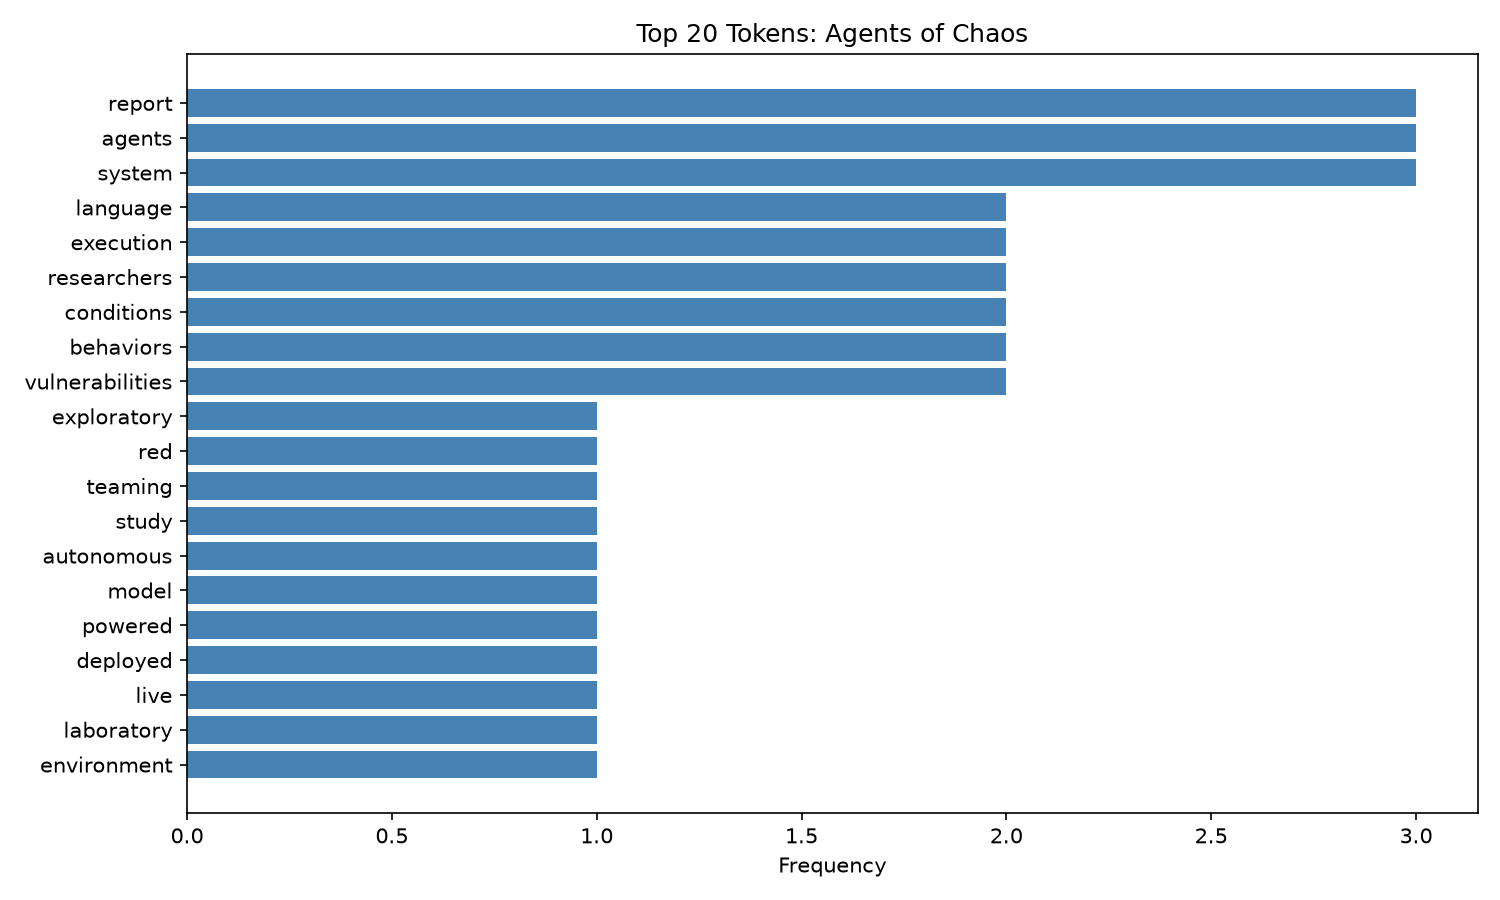
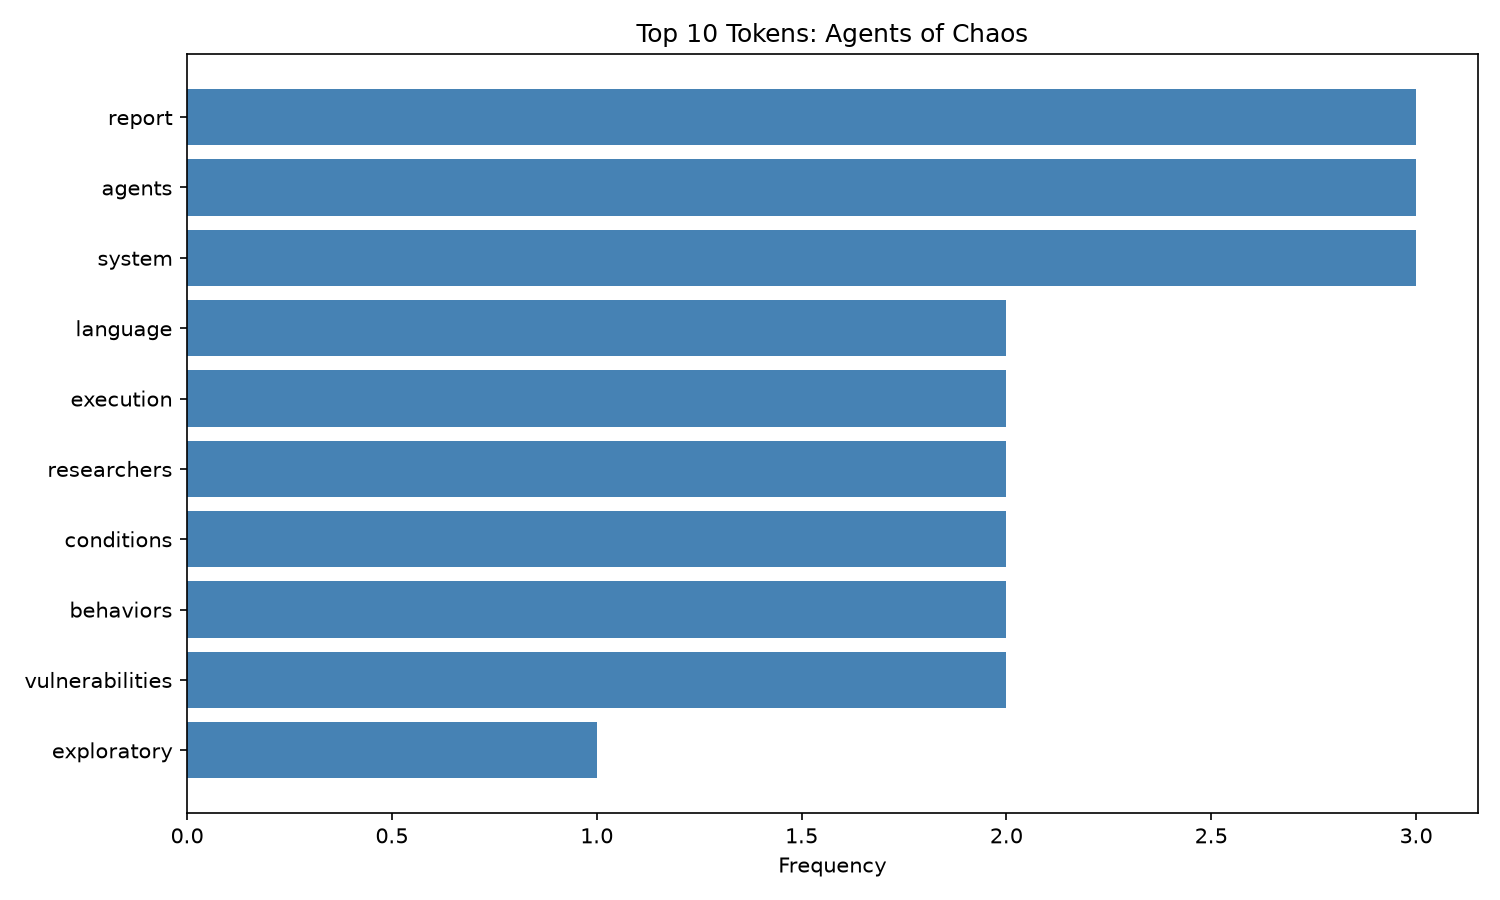
Small technical changes

Changed region(s): [[0.0307, 0.0933, 0.9507, 0.8711]]

diff --git a/data/raw/case_raw.html b/data/raw/case_raw.html
@@ -11,13 +11,11 @@
   <meta name="msapplication-TileColor" content="#da532c">
   <meta name="theme-color" content="#ffffff">
   <link rel="stylesheet" type="text/css" media="screen" href="/static/browse/0.3.4/css/arXiv.css?v=20260318" />
-  <link rel="stylesheet" type="text/css" media="print" href="/static/browse/0.3.4/css/arXiv-print.css?v=20200611" />
+  <link rel="stylesheet" type="text/css" media="print" href="/static/browse/0.3.4/css/arXiv-print.css?v=20260924" />
   <link rel="stylesheet" type="text/css" media="screen" href="/static/browse/0.3.4/css/browse_search.css" />
-  <link rel="stylesheet" type="text/css" media="screen" href="/static/base/1.0.1/css/arxiv-header-footer.css?v=20260626" />
-  <script language="javascript" src="/static/browse/0.3.4/js/accordion.js" ></script>
-  <script language="javascript" src="/static/browse/0.3.4/js/optin-modal.js?v=20250819"></script>
-
-  <link rel="canonical" href="https://arxiv.org/abs/2602.20021"/>
+<link rel="stylesheet" href="https://static.arxiv.org/static/design-system/latest/design-system-components.css">
+<link rel="stylesheet" href="https://static.arxiv.org/static/design-system/latest/fonts.css">  <script language="javascript" src="/static/browse/0.3.4/js/accordion.js" ></script>
+  <script language="javascript" src="/static/browse/0.3.4/js/optin-modal.js?v=20250819"></script><link rel="canonical" href="https://arxiv.org/abs/2602.20021"/>
   <meta name="description" content="Abstract page for arXiv paper 2602.20021: Agents of Chaos"><meta property="og:type" content="website" />
 <meta property="og:site_name" content="arXiv.org" />
 <meta property="og:title" content="Agents of Chaos" />
@@ -43,54 +41,48 @@
 
 <body ><div class="flex-wrap-footer">
     <a href="#content" class="ds-skip-link">Skip to main content</a>
-
-
-
-<header class="ds-site-header">
+<div id="ds-announcement"></div>
+<script src="https://static.arxiv.org/static/design-system/latest/chrome/banner.js" defer></script>
+<script src="https://static.arxiv.org/static/design-system/latest/chrome/header.js" defer></script>
+<header class="ds-site-header ">
   <a aria-hidden="true" tabindex="-1" href="https://arxiv.org/IgnoreMe" class="is-sr-only"></a>
-
   <a href="https://arxiv.org/" class="ds-site-header-logo" aria-label="archive home">
-    <img src="/static/base/1.0.1/images/arxiv-logo-primary-light.svg" alt="archive">
+    <img src="https://static.arxiv.org/static/design-system/latest/logos/arxiv-logo.svg" alt="archive">
   </a>
-
+  <a id="ds-search-toggle" class="ds-site-header-search-link" href="https://arxiv.org/search" aria-controls="ds-search-overlay" aria-expanded="false">
+    <svg class="ds-nav-icon" viewBox="0 0 24 24" fill="none" stroke="currentColor" stroke-width="2" stroke-linecap="round" stroke-linejoin="round" aria-hidden="true" focusable="false">
+      <circle cx="11" cy="11" r="8"/>
+      <line x1="21" y1="21" x2="16.65" y2="16.65"/>
+    </svg>
+    <span>Search</span>
+  </a>
   <button type="button" id="ds-nav-toggle" class="ds-site-header-nav-toggle"
     aria-label="Open menu" aria-controls="ds-site-header-nav" aria-expanded="false">
     <svg viewBox="0 0 24 24" fill="none" stroke="currentColor" stroke-width="2" stroke-linecap="round" stroke-linejoin="round" aria-hidden="true" focusable="false">
-      <line x1="3" y1="6" x2="21" y2="6"/>
-      <line x1="3" y1="12" x2="21" y2="12"/>
-      <line x1="3" y1="18" x2="21" y2="18"/>
+      <line x1="3" y1="6" x2="21" y2="6"/><line x1="3" y1="12" x2="21" y2="12"/><line x1="3" y1="18" x2="21" y2="18"/>
     </svg>
   </button>
-
-  <nav class="ds-site-header-nav" id="ds-site-header-nav" aria-label="Main navigation"><a id="arxiv-search-toggle" href="https://arxiv.org/search"
-      aria-controls="arxiv-search-overlay" aria-expanded="false">
-      <svg class="ds-nav-icon" viewBox="0 0 24 24" fill="none" stroke="currentColor" stroke-width="2" stroke-linecap="round" stroke-linejoin="round" aria-hidden="true" focusable="false">
-        <circle cx="11" cy="11" r="8"/>
-        <line x1="21" y1="21" x2="16.65" y2="16.65"/>
-      </svg>
-      Search
-    </a>
-    <a href="https://arxiv.org/user/create">Submit</a>
+  <nav class="ds-site-header-nav" id="ds-site-header-nav" aria-label="Main navigation">
+    <a href="https://arxiv.org/submit">Submit</a>
     <a href="https://info.arxiv.org/about/donate.html">Donate</a>
     <span class="ds-site-header-divider" aria-hidden="true"></span>
-      <a href="https://arxiv.org/login" class="ds-site-header-login">Log in</a>
-  </nav>
+<a href="https://arxiv.org/login" class="ds-site-header-login">Log in</a>  </nav>
 </header>
-
-<div class="arxiv-search-overlay" id="arxiv-search-overlay" hidden>
-  <div class="arxiv-search-panel" role="search">
+<div class="ds-search-overlay" id="ds-search-overlay" hidden>
+  <div class="ds-search-overlay-panel" role="search">
     <form method="GET" action="https://arxiv.org/search">
-      <label for="arxiv-search-input" class="is-sr-only">Search arXiv</label>
-      <input type="text" name="query" id="arxiv-search-input" autocomplete="off"
+      <label for="ds-search-input" class="is-sr-only">Search arXiv</label>
+      <input type="text" name="query" id="ds-search-input" class="ds-input" autocomplete="off"
         placeholder="Search papers by title, author, abstract, or ID...">
       <input type="hidden" name="searchtype" value="all">
       <input type="hidden" name="source" value="header">
     </form>
-    <div class="arxiv-search-hint">
+    <p class="ds-hint">
       Press Enter to search &middot; <a href="https://arxiv.org/search/advanced">Advanced search</a>
-    </div>
+    </p>
   </div>
 </div>
+
     <main>
       <div id="content">
 <!--
@@ -177,7 +169,13 @@ View a PDF of the paper titled Agents of Chaos, by Natalie Shapira and 37 other 
  </a></li></ul>
       <div class="abs-license"><a href="http://arxiv.org/licenses/nonexclusive-distrib/1.0/" title="Rights to this article">view license</a></div>
     </div>
-    <!--end full-text-->    <div class="browse">
+    <!--end full-text-->    <div class="extra-third-party">
+      <h3>Additional Features</h3>
+      <ul>
+        <li><a href="/audio/2602.20021" class="abs-button download-audio">Audio Summary</a></li>
+      </ul>
+    </div>
+    <div class="browse">
     <h3 class="browse-context-heading">Current browse context:</h3>
   <div class="current">cs.AI</div>
 
@@ -207,7 +205,7 @@ View a PDF of the paper titled Agents of Chaos, by Natalie Shapira and 37 other 
       <div class="extra-ref-cite">
         <h3>References &amp; Citations</h3>
         <ul>
-          <li><a  class="abs-button abs-button-small cite-ads" href="https://ui.adsabs.harvard.edu/abs/arXiv:2602.20021">NASA ADS</a></li><li><a  class="abs-button abs-button-small cite-google-scholar" href="https://scholar.google.com/scholar_lookup?arxiv_id=2602.20021" target="_blank" rel="noopener">Google Scholar</a></li>
+          <li><a  class="abs-button abs-button-small cite-ads" href="https://scixplorer.org/abs/arXiv:2602.20021">SciX</a></li><li><a  class="abs-button abs-button-small cite-google-scholar" href="https://scholar.google.com/scholar_lookup?arxiv_id=2602.20021" target="_blank" rel="noopener">Google Scholar</a></li>
           <li><a  class="abs-button abs-button-small cite-semantic-scholar" href="https://api.semanticscholar.org/arXiv:2602.20021" target="_blank" rel="noopener">Semantic Scholar</a></li>
         </ul>
         <div style="clear:both;"></div>
@@ -256,7 +254,7 @@ View a PDF of the paper titled Agents of Chaos, by Natalie Shapira and 37 other 
           <div class="column lab-switch">
             <label class="switch">
               <input id="bibex-toggle" type="checkbox" class="lab-toggle"
-                     data-script-url="/static/browse/0.3.4/bibex/bibex.js?20241202">
+                     data-script-url="/static/browse/0.3.4/bibex/bibex.js?20261013">
               <span class="slider"></span>
               <span class="is-sr-only">Bibliographic Explorer Toggle</span>
             </label>
@@ -574,48 +572,23 @@ View a PDF of the paper titled Agents of Chaos, by Natalie Shapira and 37 other 
   <div class="ds-site-footer-grid">
     <div class="ds-site-footer-main">
       <div class="ds-site-footer-ack">
-        We gratefully acknowledge support from
-        our <strong>major funders</strong>,
+        We gratefully acknowledge support from our <a href="https://info.arxiv.org/about/major_funders.html"><strong>major funders</strong></a>,
         <a href="https://info.arxiv.org/about/ourmembers.html"><strong>member institutions</strong></a><span class="ack-member-inline" hidden>, <strong></strong></span>,
         and all contributors.
       </div>
       <nav class="ds-site-footer-links" aria-label="Site navigation">
-        <a href="https://info.arxiv.org/about">About</a>
-        <span class="ds-site-footer-sep" aria-hidden="true">&middot;</span>
-        <a href="https://info.arxiv.org/help">Help</a>
-        <span class="ds-site-footer-sep" aria-hidden="true">&middot;</span>
-        <a href="https://info.arxiv.org/help/contact.html">Contact</a>
-        <span class="ds-site-footer-sep" aria-hidden="true">&middot;</span>
-        <a href="https://info.arxiv.org/help/subscribe">Subscribe</a>
-        <span class="ds-site-footer-sep" aria-hidden="true">&middot;</span>
-        <a href="https://info.arxiv.org/help/license/index.html">Copyright</a>
-        <span class="ds-site-footer-sep" aria-hidden="true">&middot;</span>
-        <a href="https://info.arxiv.org/help/policies/privacy_policy.html">Privacy</a>
-        <span class="ds-site-footer-sep" aria-hidden="true">&middot;</span>
-        <a href="https://info.arxiv.org/help/web_accessibility.html">Accessibility</a>
-        <span class="ds-site-footer-sep" aria-hidden="true">&middot;</span>
-        <a href="https://status.arxiv.org" target="_blank" rel="noopener noreferrer">Operational Status<span class="is-sr-only"> (opens in new tab)</span></a>
+        <a href="https://info.arxiv.org/about">About</a> <span class="ds-site-footer-sep" aria-hidden="true">&middot;</span>
+        <a href="https://info.arxiv.org/help">Help</a> <span class="ds-site-footer-sep" aria-hidden="true">&middot;</span>
+        <a href="https://info.arxiv.org/help/contact.html">Contact</a> <span class="ds-site-footer-sep" aria-hidden="true">&middot;</span>
+        <a href="https://info.arxiv.org/help/subscribe.html">Subscribe</a> <span class="ds-site-footer-sep" aria-hidden="true">&middot;</span>
+        <a href="https://info.arxiv.org/help/license/index.html">Copyright</a> <span class="ds-site-footer-sep" aria-hidden="true">&middot;</span>
+        <a href="https://info.arxiv.org/help/policies/privacy_policy.html">Privacy</a> <span class="ds-site-footer-sep" aria-hidden="true">&middot;</span>
+        <a href="https://info.arxiv.org/help/web_accessibility.html">Accessibility</a> <span class="ds-site-footer-sep" aria-hidden="true">&middot;</span>
+        <a href="https://status.arxiv.org/" target="_blank" rel="noopener noreferrer">Operational Status<span class="is-sr-only"> (opens in new tab)</span></a>
       </nav>
-    </div>
-
-    <div class="ds-site-footer-funders" aria-label="Major funders">
-      <div class="ds-site-footer-funders-label">Major funding support from</div>
-      <div class="ds-site-footer-funders-logos">
-        <a class="ds-funder-link" href="https://www.simonsfoundation.org/" target="_blank" rel="noopener noreferrer">
-          <img class="ds-funder-logo" src="/static/base/1.0.1/images/funders/simons-foundation.png" alt="Simons Foundation">
-        </a>
-        <a class="ds-funder-link" href="https://www.sfi.org.bm/" target="_blank" rel="noopener noreferrer">
-          <img class="ds-funder-logo" src="/static/base/1.0.1/images/funders/simons-foundation-international.png" alt="Simons Foundation International">
-        </a>
-        <a class="ds-funder-link" href="https://www.schmidtsciences.org/" target="_blank" rel="noopener noreferrer">
-          <img class="ds-funder-logo" src="/static/base/1.0.1/images/funders/schmidt-sciences.png" alt="Schmidt Sciences">
-        </a>
-      </div>
     </div>
   </div>
 </footer>  </div>
-
-  <script src="/static/base/1.0.1/js/arxiv-header.js?v=20260626"></script>
 
 </body>
 

diff --git a/src/nlp/stage04_analyze.py b/src/nlp/stage04_analyze.py
@@ -194,7 +194,7 @@ def run_analyze(
     df: pd.DataFrame,
     LOG: logging.Logger,
     output_dir: Path = Path("data/processed"),
-    top_n: int = 20,
+    top_n: int = 10,
 ) -> None:
     """Analyze the transformed DataFrame and produce visualizations.
 
